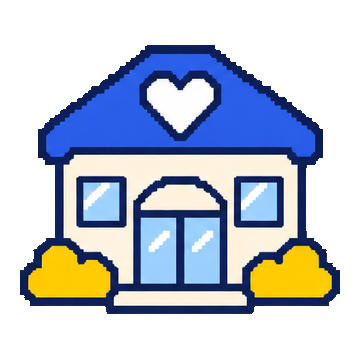
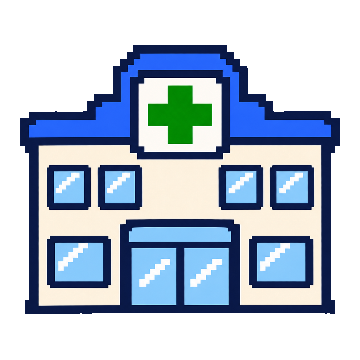
새 그림 반영: 병원 아이콘(초록 십자), '알겠어요!' 웃는 아이 얼굴, 인증서 카드 깨끗한 배경(아직 미사용)
Claude-Session: https://claude.ai/code/session_013gDdTYJTFtJbqVVU26WXWd

diff --git a/sw.js b/sw.js
@@ -1,7 +1,7 @@
 /* 서비스 워커 — 화면 파일을 저장해 두어 인터넷이 끊겨도 앱이 열려요.
    ※ 파일을 고쳐서 다시 올릴 때는 아래 VERSION 숫자를 하나 올려 주세요. (예: v1 → v2)
    ※ 학생 기록은 여기 저장되지 않아요 (기록은 각 기기의 LocalStorage에만). */
-const VERSION = 'v22-result-kid';
+const VERSION = 'v23-new-art';
 const CACHE = 'allergy-shield-' + VERSION;
 const FILES = [
   './',
